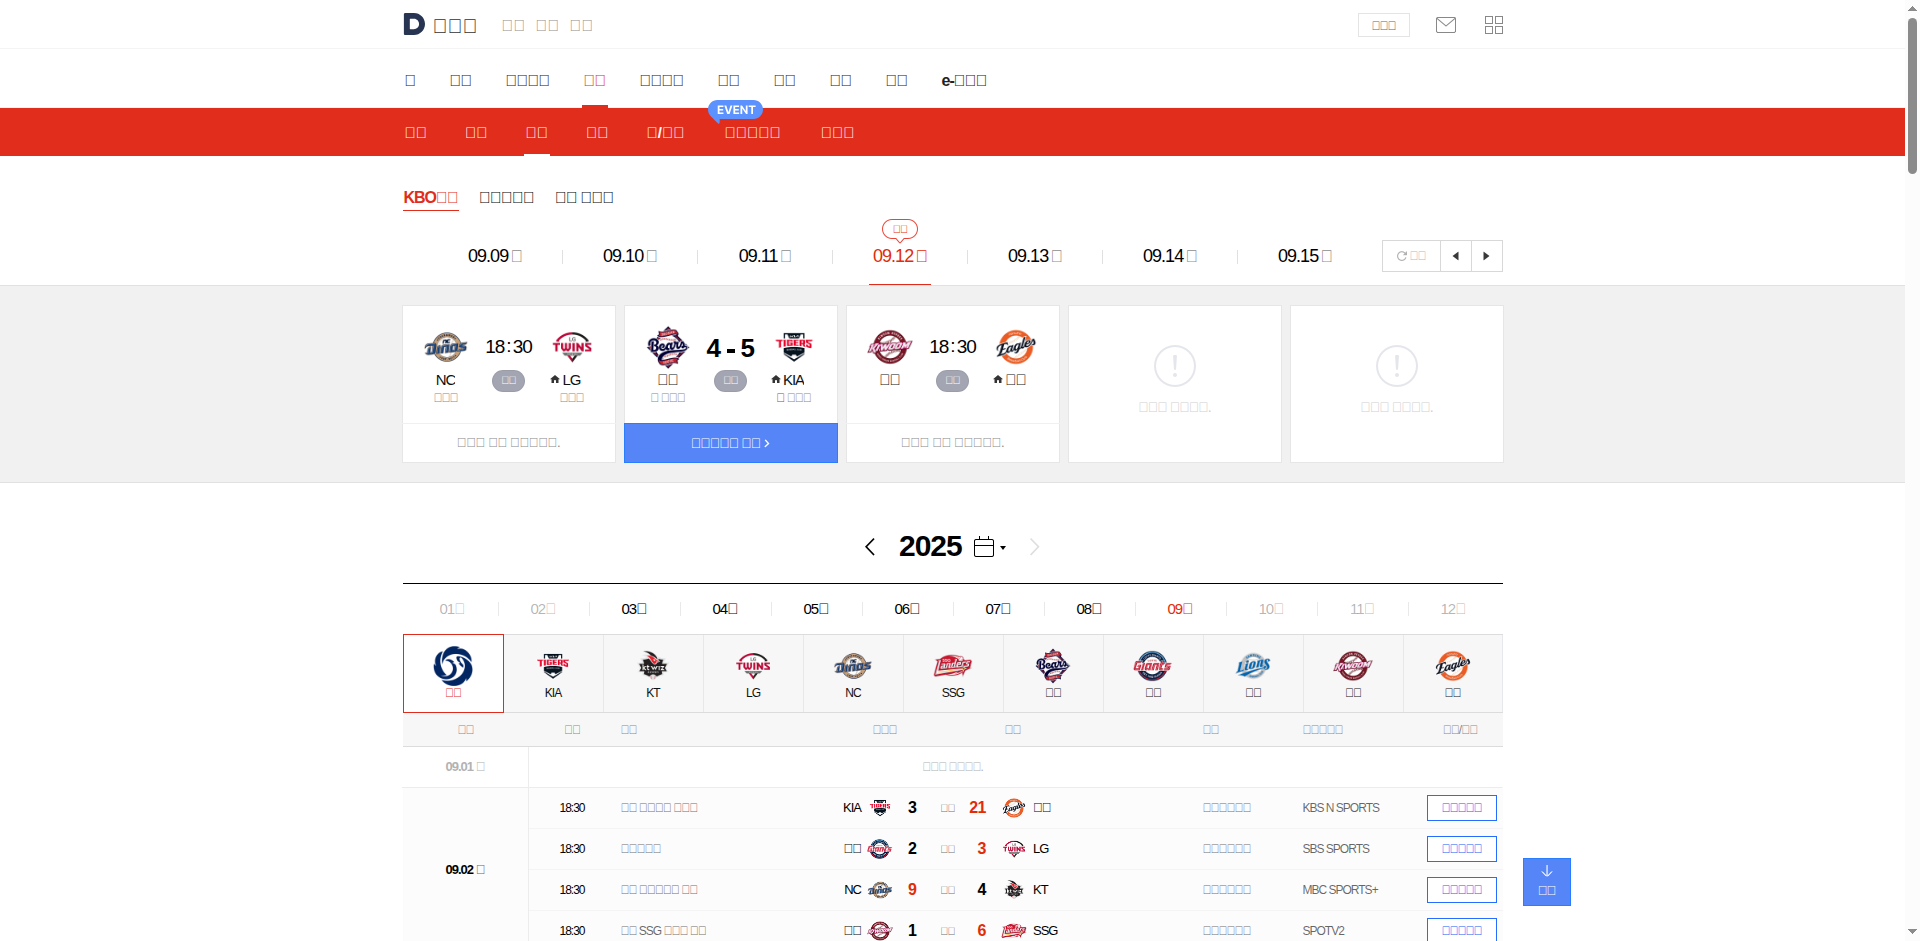
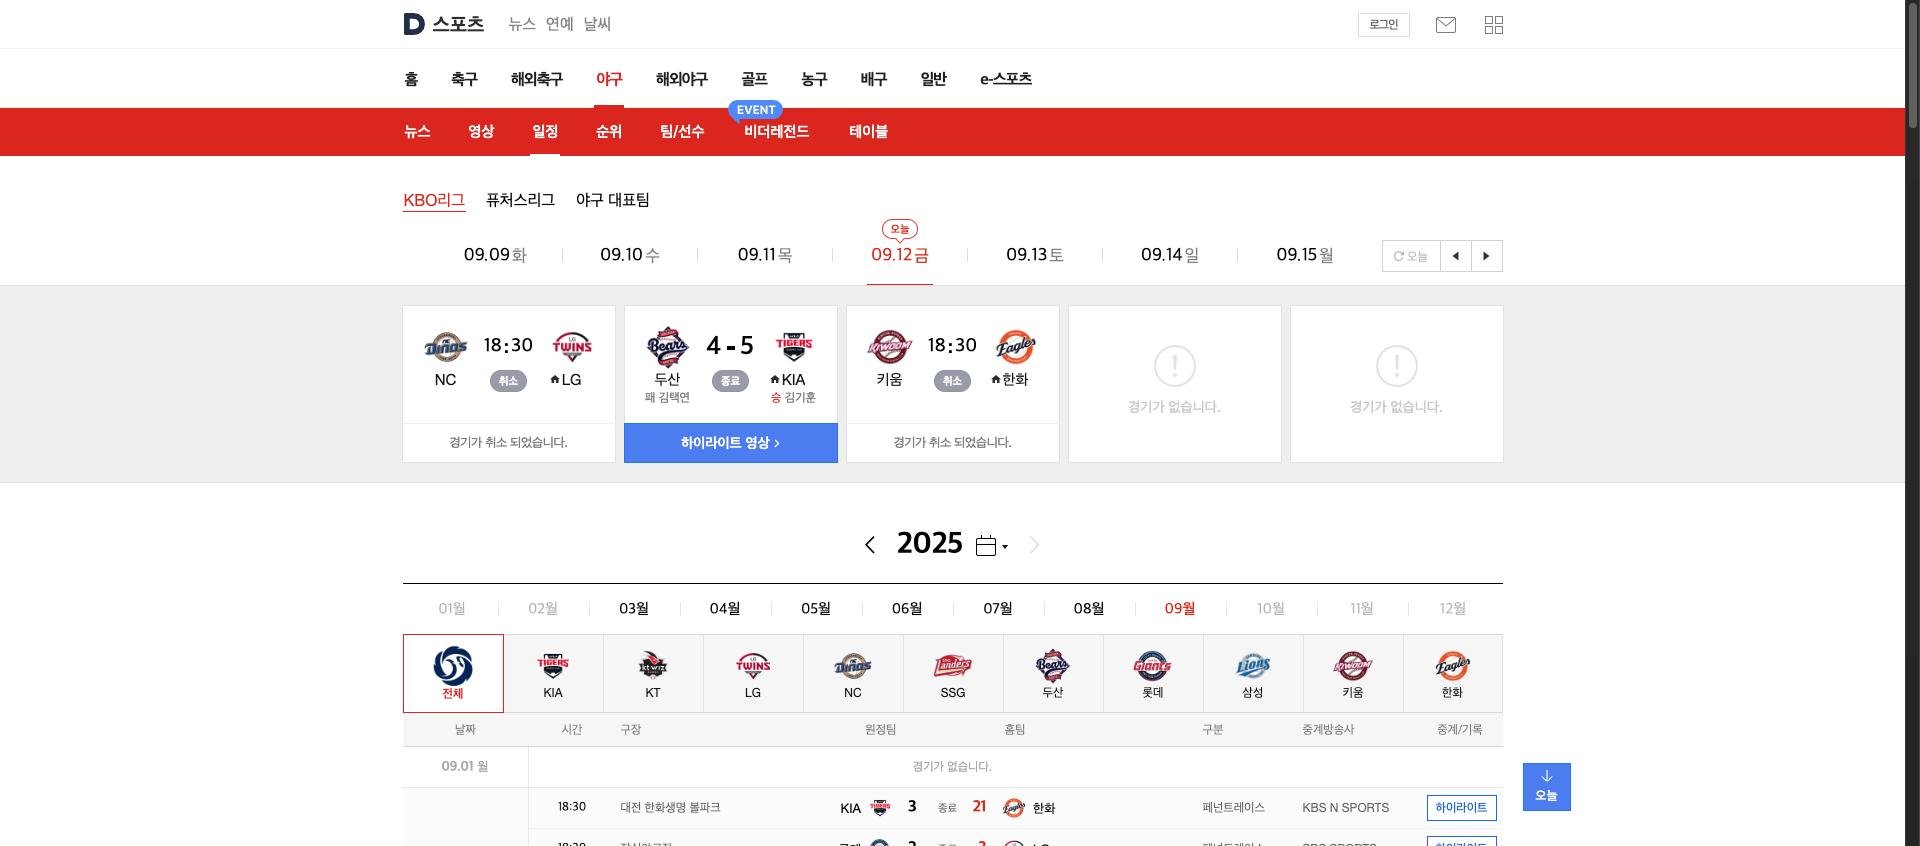
🔧 크롤러 스크린샷 기능 개선

diff --git a/magic-number/crawlers/kbo-python-working-crawler.py b/magic-number/crawlers/kbo-python-working-crawler.py
@@ -94,10 +94,45 @@ class KBOWorkingCrawler:
             
             time.sleep(2)
             
-            # 스크린샷
+            # 전체 페이지 스크린샷을 위한 설정
+            # 브라우저 창 크기 조정 및 스크롤
+            original_size = driver.get_window_size()
+            
+            # 페이지 끝까지 스크롤하여 모든 내용 로드
+            last_height = driver.execute_script("return document.body.scrollHeight")
+            while True:
+                driver.execute_script("window.scrollTo(0, document.body.scrollHeight);")
+                time.sleep(2)
+                new_height = driver.execute_script("return document.body.scrollHeight")
+                if new_height == last_height:
+                    break
+                last_height = new_height
+            
+            # 페이지 상단으로 돌아가기
+            driver.execute_script("window.scrollTo(0, 0);")
+            time.sleep(1)
+            
+            # 전체 페이지 높이에 맞춰 창 크기 조정
+            total_height = driver.execute_script("""
+                return Math.max(
+                    document.body.scrollHeight,
+                    document.body.offsetHeight,
+                    document.documentElement.clientHeight,
+                    document.documentElement.scrollHeight,
+                    document.documentElement.offsetHeight
+                );
+            """)
+            
+            # 브라우저 창 크기를 전체 페이지에 맞게 조정
+            driver.set_window_size(1920, total_height)
+            time.sleep(2)
+            
             screenshot_path = Path(self.paths.crawlers_dir) / 'kbo-working-screenshot.png'
             driver.save_screenshot(str(screenshot_path))
-            print("📸 스크린샷 저장: kbo-working-screenshot.png")
+            print(f"📸 전체 페이지 스크린샷 저장: kbo-working-screenshot.png (높이: {total_height}px)")
+            
+            # 원래 창 크기로 복원
+            driver.set_window_size(original_size['width'], original_size['height'])
             
             # HTML 파싱
             html = driver.page_source
